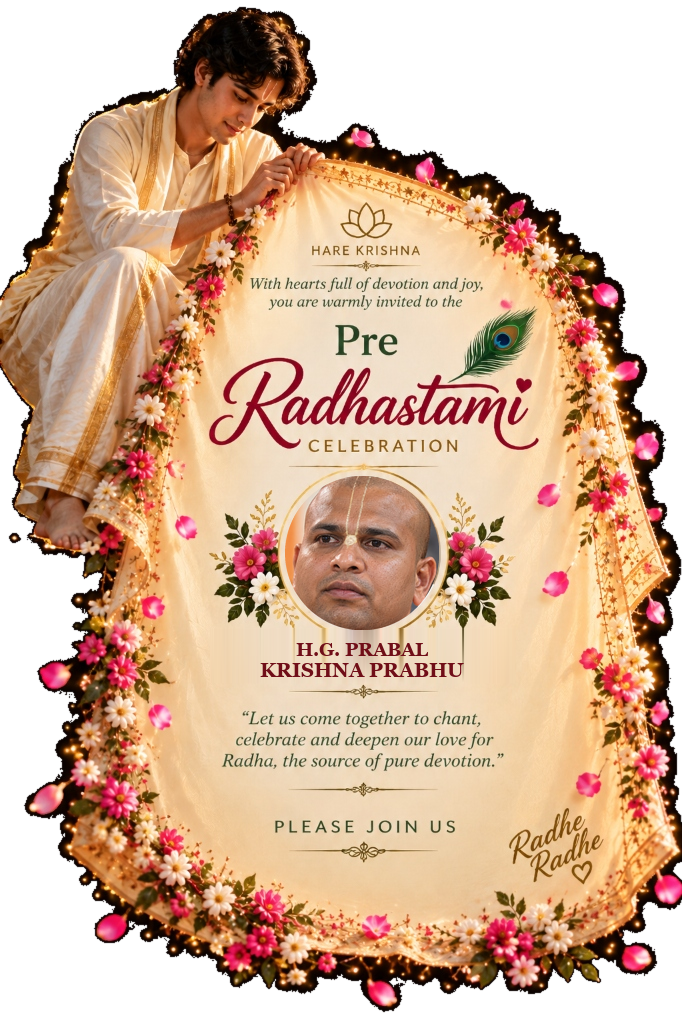
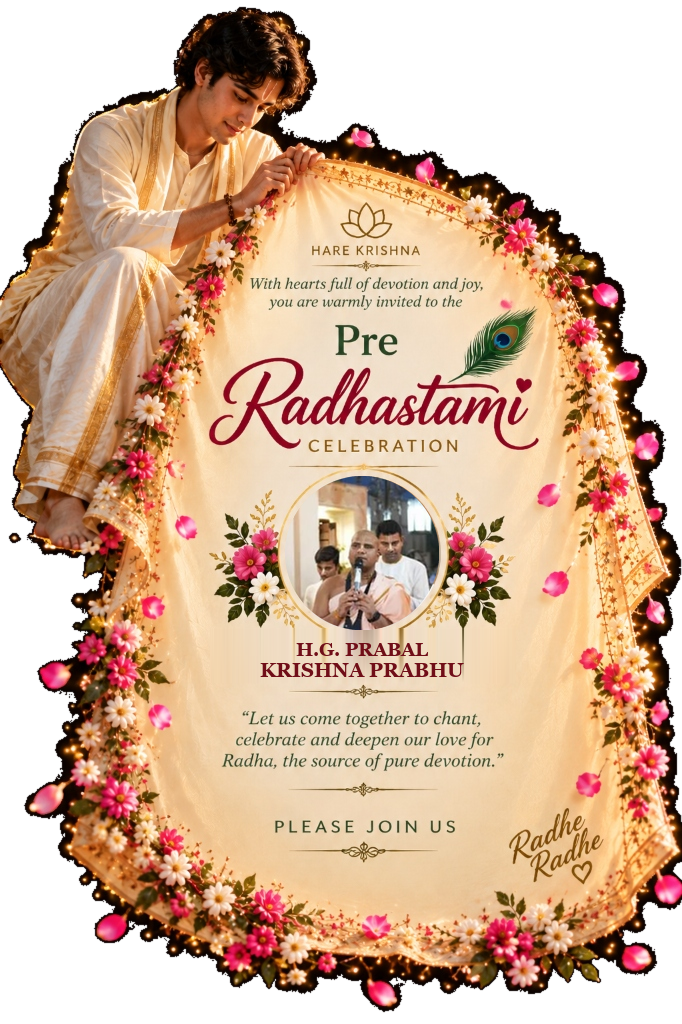
Update photo for HG Prabal Krishna Prabhu (bottom center kirtan)

Changed region(s): [[0.4003, 0.4375, 0.6466, 0.625]]

diff --git a/update_prabal.py b/update_prabal.py
@@ -1,0 +1,64 @@
+import os, sys, re, subprocess
+import numpy as np
+from PIL import Image, ImageDraw, ImageFont
+
+base_dir = r'D:\radha-ashtami'
+images_dir = os.path.join(base_dir, 'images')
+
+photo_path = r'C:\Users\pc\.gemini\antigravity\brain\ab98e414-96f1-47f0-bd3d-25b94e55a072\.user_uploaded\media_1789643581113.jpg'
+src = Image.open(photo_path).convert('RGB')
+w, h = src.size
+
+# Bottom center devotee (leading kirtan with mic): cx ~ 0.525, cy ~ 0.658
+crop_size = int(min(w, h) * 0.22)
+cx = int(w * 0.525)
+cy = int(h * 0.658)
+left = max(0, min(w - crop_size, cx - crop_size // 2))
+top = max(0, min(h - crop_size, cy - crop_size // 2))
+
+profile_sq = src.crop((left, top, left + crop_size, top + crop_size)).resize((500, 500), Image.Resampling.LANCZOS)
+profile_sq.save(os.path.join(images_dir, 'prabal_krishna_prabhu.jpg'), quality=95)
+
+# Template & clean name area
+card_orig = Image.open(os.path.join(images_dir, 'radharani_dupatta_transparent.png')).convert('RGBA')
+arr = np.array(card_orig)
+y1, y2, x1, x2 = 629, 681, 210, 515
+row_top = arr[y1 - 1, x1:x2].astype(float)
+row_bot = arr[y2 + 1, x1:x2].astype(float)
+for idx, y in enumerate(range(y1, y2 + 1)):
+    alpha = (idx + 1) / (y2 - y1 + 2)
+    arr[y, x1:x2] = (1 - alpha) * row_top + alpha * row_bot
+card = Image.fromarray(arr, 'RGBA')
+
+cx_c, cy_c, radius = 362, 553, 77
+size = radius * 2
+
+mask = Image.new('L', (size * 4, size * 4), 0)
+draw_mask = ImageDraw.Draw(mask)
+draw_mask.ellipse((0, 0, size * 4, size * 4), fill=255)
+mask = mask.resize((size, size), Image.Resampling.LANCZOS)
+
+face_resized = profile_sq.resize((size, size), Image.Resampling.LANCZOS).convert('RGBA')
+card.paste(face_resized, (cx_c - radius, cy_c - radius), mask)
+
+draw = ImageDraw.Draw(card)
+font_bold = ImageFont.truetype('georgiab.ttf', 20)
+font_sub = ImageFont.truetype('georgiab.ttf', 19)
+text_color = (112, 14, 24, 255)
+
+line1 = 'H.G. PRABAL'
+line2 = 'KRISHNA PRABHU'
+bb1 = draw.textbbox((0, 0), line1, font=font_sub)
+w1 = bb1[2] - bb1[0]
+bb2 = draw.textbbox((0, 0), line2, font=font_bold)
+w2 = bb2[2] - bb2[0]
+draw.text((cx_c - w1 // 2, 638), line1, fill=text_color, font=font_sub)
+draw.text((cx_c - w2 // 2, 658), line2, fill=text_color, font=font_bold)
+
+card_file = 'radharani_dupatta_prabal_krishna.png'
+card.save(os.path.join(images_dir, card_file), 'PNG')
+
+subprocess.run(['git', 'add', '.'], cwd=base_dir, check=True)
+subprocess.run(['git', 'commit', '-m', 'Update photo for HG Prabal Krishna Prabhu (bottom center kirtan)'], cwd=base_dir, check=True)
+subprocess.run(['git', 'push', 'origin', 'main'], cwd=base_dir, check=True)
+print('SUCCESS_UPDATED_PRABAL_KRISHNA')
